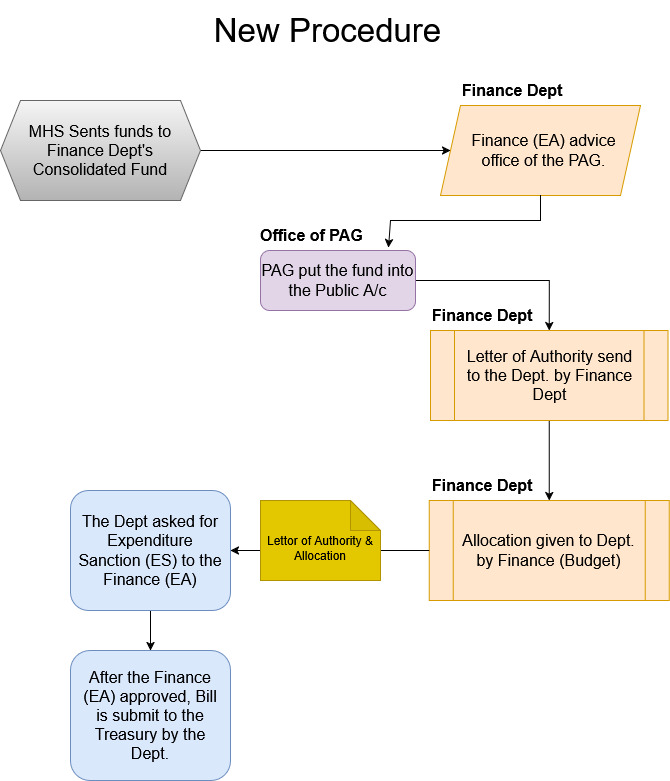
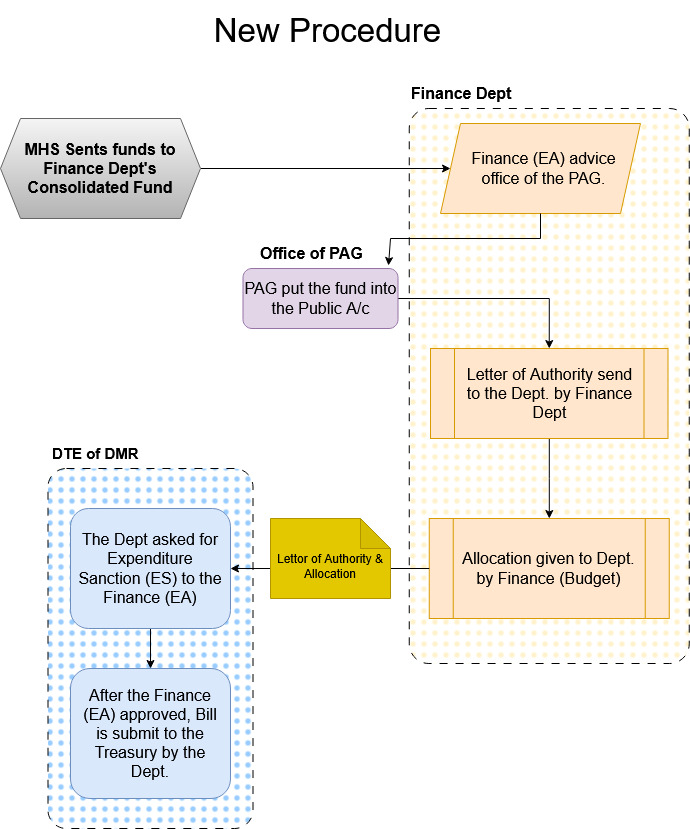
new

Changed region(s): [[0.0, 0.0922, 1.0, 1.0], [0.2985, 0.0, 0.6567, 0.0615]]

diff --git a/index.html b/index.html
@@ -29,9 +29,8 @@
     <h2><a href="#link2">District SDRF Balance</a></h2>
     <h2><a href="#link3">SDRF Fund Position</a></h2>
     <h2><a href="#link4">SDRF & SDMF Receipt and year of received</a></h2>
-    <h2><a href="#link5">Flowchart of SDRMF</a></h2>
-
-    <p>
+    <h2><a href="#link5">Flowchart of SDRMF <a href="#link5" style="color: red;font-size: 0.7em;">NEW!</a> </a></h2>
+      <p>
       <h2 id="link1">
         SDRF 
       </h2>
@@ -70,7 +69,7 @@ width=90% height=100% ></iframe>
 
 
         <p>
-<h2>
+<h2 >
     Flow Chart of Old Procedure of SDRMF
 </h2>
             <img src="old_sdrf.jpg" width="740" />
@@ -78,6 +77,7 @@ width=90% height=100% ></iframe>
         
 </div>
   <script>
+
         function checkInput() {
             const input = document.getElementById("inputField").value;
             const hiddenDiv = document.getElementById("hiddenDiv");
